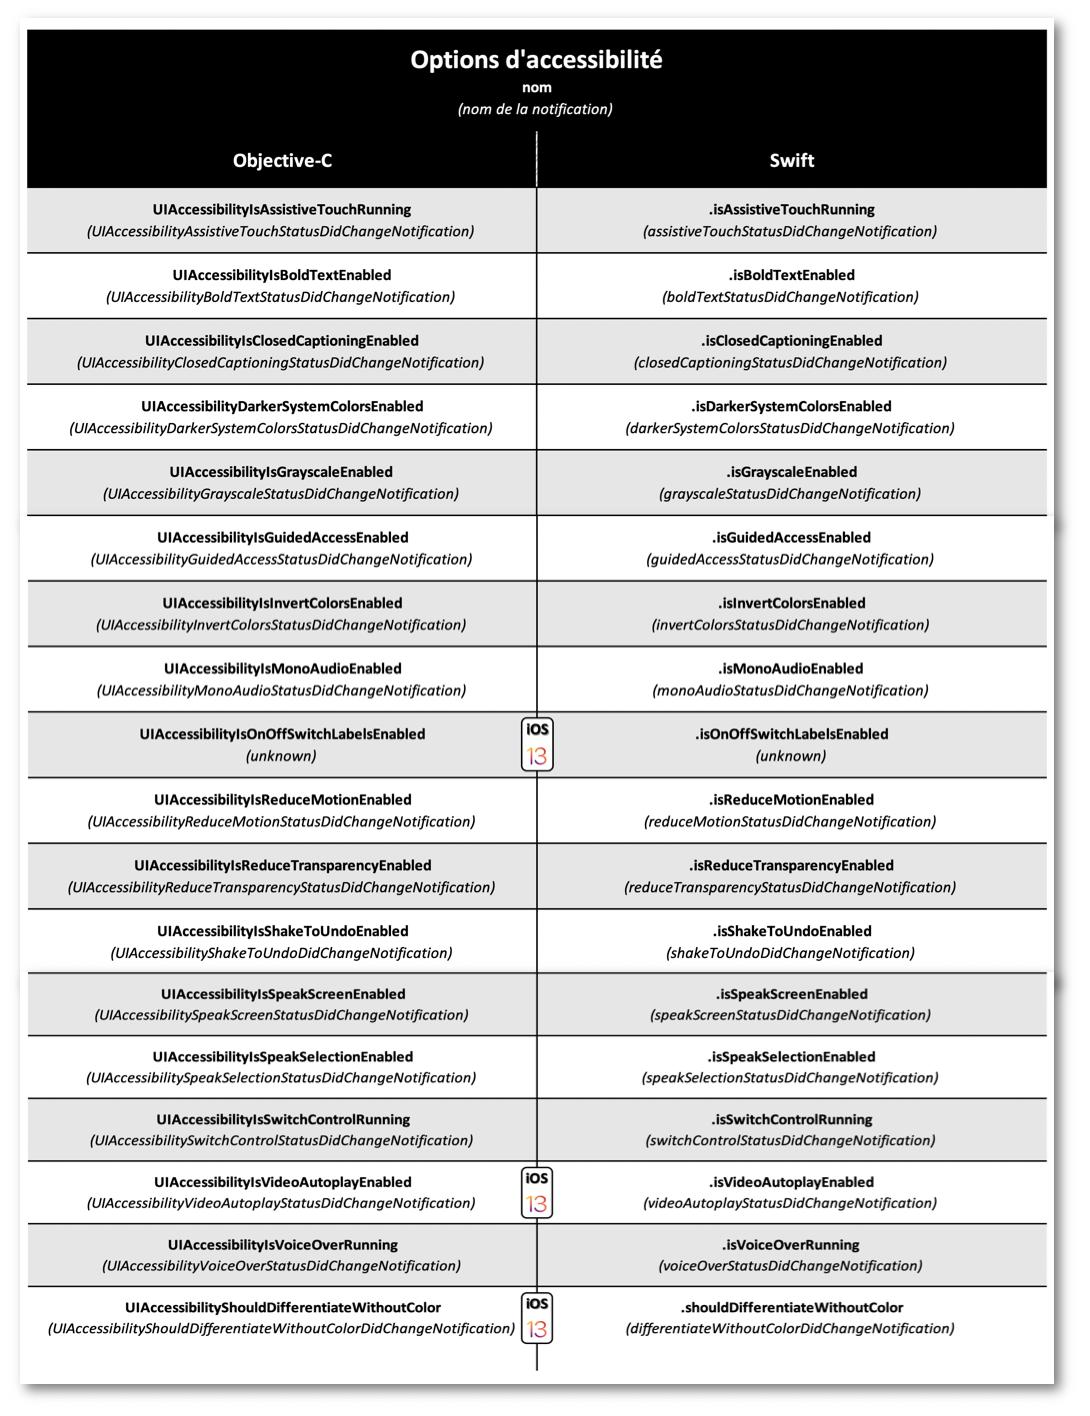
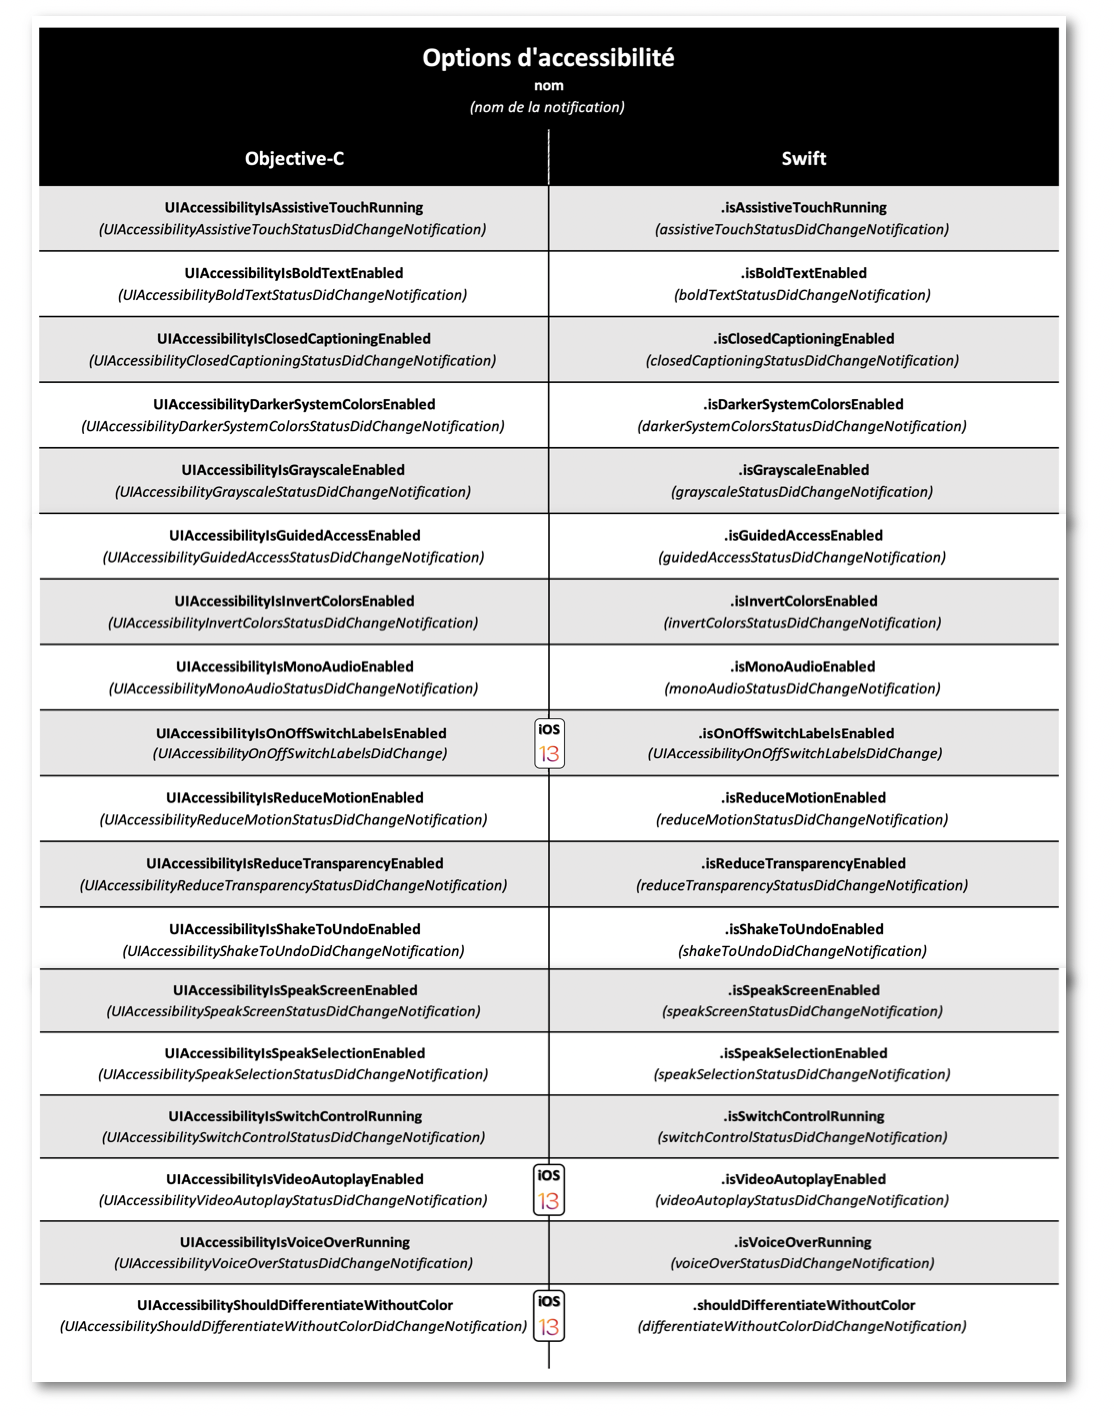
iOS: updated a11y option in iOS 13 {Design Criteria, EN + FR}.

diff --git a/mobile/inputs/md/criteria-ios-conception.md b/mobile/inputs/md/criteria-ios-conception.md
@@ -451,6 +451,7 @@ La liste exhaustive de ces options est fournie ci-dessous en détaillant leur ac
 15. [Activer VoiceOver](#optionA11Y_voiceOver).
 16. [Prévisualisation vidéo](#optionA11Y_autoPlayVideoPreviews) ⟹ **nouveauté iOS 13**
 17. [Différencier sans couleur](#optionA11Y_differentiateWithourColour) ⟹ **nouveauté iOS 13**
+18. [Boutons avec I/O](#optionA11Y_onOffSwitchLabels) ⟹ **nouveau dans iOS 13**
 
 <a name="optionA11Y_contraste"></a>
 - **Augmenter le contraste** *(UIAccessibilityDarkerSystemColorsEnabled)* : voir [WWDC 2018](./criteria-ios-wwdc-18230.html#Contrast) pour un descriptif de la fonctionnalité.
@@ -861,10 +862,14 @@ La liste exhaustive de ces options est fournie ci-dessous en détaillant leur ac
 <a name="optionA11Y_autoPlayVideoPreviews"></a>
 - **Prévisualisation vidéo** *(UIAccessibilityIsVideoAutoplayEnabled)* : voir [WWDC 2019](./criteria-ios-wwdc-19000.html#nouveaut-s-ios-13-pour-l-accessibilit-visuelle) pour un descriptif de cette **nouvelle fonctionnalité iOS 13**.
 </br><img style="max-width: 375px; height: auto;" alt="Illustration d'accès via le menu Réglages - Accessibilité - Mouvement - Lire automatiquement les aperçus" src="./images/iOSdev/wwdc19-244-TextStyles_6.png" />
-</br>
+</br></br></br>
 <a name="optionA11Y_differentiateWithourColour"></a>
 - **Différencier sans couleur** *(UIAccessibilityShouldDifferentiateWithoutColour)* : voir [WWDC 2019](./criteria-ios-wwdc-19000.html#nouveaut-s-ios-13-pour-l-accessibilit-visuelle) pour un descriptif de cette **nouvelle fonctionnalité iOS 13**.
 </br><img style="max-width: 1000px; height: auto;" alt="Illustration d'accès via le menu Réglages - Accessibilité - Affichage et taille du texte - Différencier sans couleur" src="./images/optionA11Y_iOS13_differentiateWithoutColour.png" />
+</br></br></br>
+<a name="optionA11Y_onOffSwitchLabels"></a>
+- **Boutons avec I/O** *(UIAccessibilityIsOnOffSwitchLabelsEnabled)* : une fois activée, cette option dont l'**accès programmatique est une nouveauté iOS 13** affiche directement l'état des boutons à bascule pour éviter que seule la couleur soit porteuse de l'information.
+</br><img style="max-width: 1000px; height: auto;" alt="Illustration d'accès via le menu Réglages - Accessibilité - Affichage et taille du texte - Boutons avec I/O" src="./images/optionA11Y_iOS13_onOffSwitchLabels.png" />
 </br>
 
 </br>Une fois l'option activée, si l'action désirée n'est pas effective au sein de l'application, il est **très fortement recommandé** d'agir en conséquence en se tenant informé de l'état de l'option impactée pour fournir à l'utilisateur l'expérience à laquelle il s'attend.

diff --git a/mobile_EN/inputs/md/criteria-ios.md b/mobile_EN/inputs/md/criteria-ios.md
@@ -449,6 +449,7 @@ The full list of these options including their purpose and their coding name is 
 15. [VoiceOver](#optionA11Y_voiceOver)
 16. [Auto-Play Video Previews](#optionA11Y_autoPlayVideoPreviews) ⟹ **iOS 13 new feature**
 17. [Differentiate Without Colour](#optionA11Y_differentiateWithourColour) ⟹ **iOS 13 new feature**
+18. [On/Off Labels](#optionA11Y_onOffSwitchLabels) ⟹ **new in iOS 13**
 
 <a name="optionA11Y_contraste"></a>
 - **Increase Contrast** *(UIAccessibilityDarkerSystemColorsEnabled)* : see the [WWDC 2018 video](./dev-ios-wwdc-18230.html#Contrast) for a detailed description.
@@ -858,10 +859,14 @@ The full list of these options including their purpose and their coding name is 
 <a name="optionA11Y_autoPlayVideoPreviews"></a>
 - **Auto-Play Video Previews** *(UIAccessibilityIsVideoAutoplayEnabled)* : see the [WWDC 2019 video](./dev-ios-wwdc-19000.html#VisualDesignAccessibility) for a detailed description of this **iOS 13 new feature**.
 </br><img style="max-width: 375px; height: auto;" alt="Access illustration via Settings - Accessibility - Motion - Auto-play Video Previews" src="./images/iOSdev/wwdc19-244-TextStyles_6.png" />
-</br>
+</br></br></br>
 <a name="optionA11Y_differentiateWithourColour"></a>
 - **Differentiate Without Colour** *(UIAccessibilityShouldDifferentiateWithoutColour)* : see the [WWDC 2019 video](./dev-ios-wwdc-19000.html#VisualDesignAccessibility) for a detailed description of this **iOS 13 new feature**.
 </br><img style="max-width: 1000px; height: auto;" alt="Access illustration via Settings - Accessibility - Display & Text Size - Differentiate Without Colour" src="./images/optionA11Y_iOS13_differentiateWithoutColour.png" />
+</br></br></br>
+<a name="optionA11Y_onOffSwitchLabels"></a>
+- **On/Off Labels** *(UIAccessibilityIsOnOffSwitchLabelsEnabled)* : once activated, this option whose **programmatic access is new in iOS 13** displays each button state.
+</br><img style="max-width: 1000px; height: auto;" alt="Access illustration via Settings - Accessibility - Display & Text Size - On/Off Labels" src="./images/optionA11Y_iOS13_onOffSwitchLabels.png" />
 </br>
 
 </br>Once activated, if the accessibility option has no result in the application running, it's **highly recommended** to keep oneself posted of the impacted options states so as to provide the best user experience.
